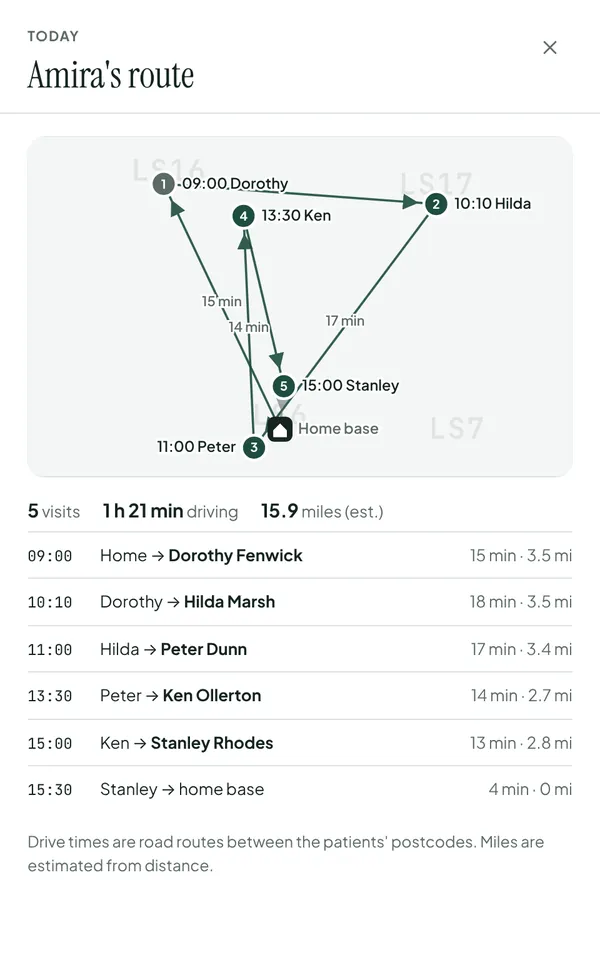
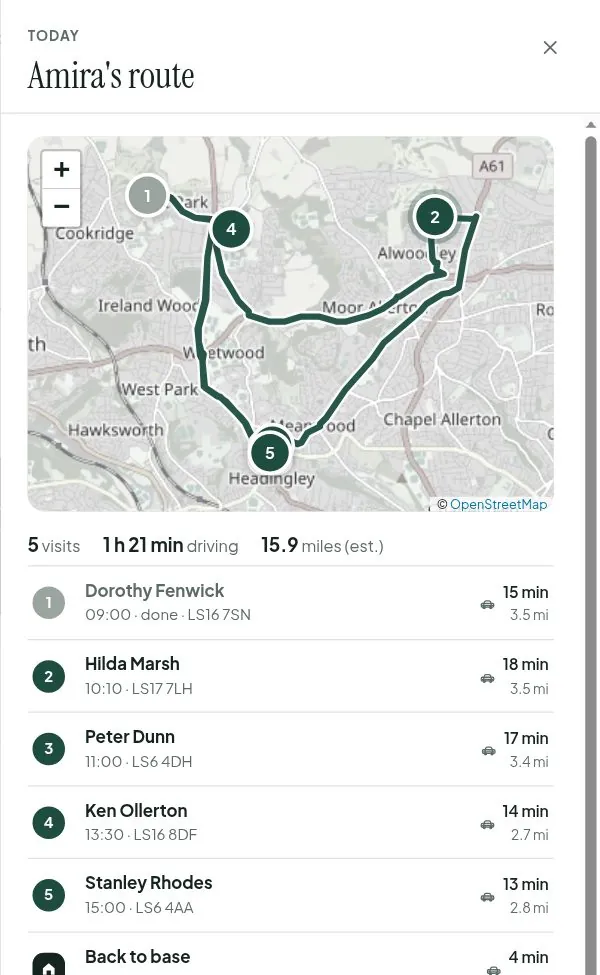
Position Domi for all home-visit healthcare; client branding by default on the live demo (#30)
Website and README
- Domi is now presented as the diary for healthcare that comes to the
  patient's home, not just domiciliary opticians.
- A new "Who it's for" section covers eye care, hearing, foot care,
  dental, physio, home blood tests, nursing and therapy assessments.
  - Each carries an honest status. Eye care is "Built for it" (its rules
    are in the demo); the rest are "Ready to set up" (the common core works
    and visit types are configured per practice).
  - Each names what isn't built for it: Noah 4, repeating visits, dental
    charting, a lab drop-off stop, medicines and wound charts.
- Hero copy, points and meta description are updated. New FAQs: which
  services, "we're not opticians", Noah.
- The roadmap gains repeating visits, care-home sessions and per-service
  records.
- Two new carousel cards: route planning and the referral form. The route
  cards are replaced with live street-map screenshots.
- The README gains a matching "Who it's for" table and the new demo
  address.

Demo address and branding
- The demo lives at app.domi.ysbdesigns.uk.
- A deployment can open in a practice's brand by default (DEFAULT_BRAND,
  set to hvo on the showcase service), so the plain address shows the
  client's logo and colours.
- /?brand=domi gives the neutral demo. The website's "Try the live demo"
  button uses it, so public visitors never land on a client's branding.
- The 6-hourly site check uses the bare domain.

Map
[…]

Changed region(s): [[0.03, 0.1231, 1.0, 1.0], [0.03, 0.0308, 0.33, 0.0923], [0.81, 0.9846, 0.84, 1.0]]

diff --git a/site/index.html b/site/index.html
@@ -4,7 +4,7 @@
 <meta charset="utf-8">
 <meta name="viewport" content="width=device-width, initial-scale=1">
 <title>Domi · Home-visit diaries that refill themselves</title>
-<meta name="description" content="Diary software for domiciliary opticians. When a patient cancels, Domi texts the best-matched person on your waiting list, books the first yes and updates the clinician's phone.">
+<meta name="description" content="The diary for healthcare that comes to the patient's home: eye care, hearing, foot care, dental, physio, blood tests and nursing. Domi refills cancellations by text, plans each clinician's route and takes referrals without paperwork.">
 <meta name="color-scheme" content="dark">
 <meta name="theme-color" content="#0C1412">
 <link rel="icon" href="favicon.svg" type="image/svg+xml">
@@ -285,6 +285,19 @@
   .tag { display: inline-block; font: 600 12px/1 'Plus Jakarta Sans', sans-serif; letter-spacing: .04em; text-transform: uppercase;
     padding: 6px 10px; border-radius: 999px; margin-bottom: 12px; }
   .tag-now { color: var(--mint); background: var(--mint-bg); }
+  /* Who it's for */
+  .sect-lead { max-width: 720px; margin: 18px auto 0; text-align: center; color: var(--soft); }
+  .sectors { list-style: none; margin: 40px 0 0; padding: 0; display: grid; grid-template-columns: repeat(3, minmax(0, 1fr)); gap: 16px; }
+  .sector { background: var(--card); border: 1px solid var(--line); border-radius: 22px; padding: 22px 22px 20px; }
+  .sector.lead { grid-column: span 2; background: linear-gradient(170deg, rgba(30,77,64,.9), rgba(18,48,42,.9)); border-color: rgba(108,197,146,.35); }
+  .sector h3 { margin: 12px 0 2px; font-size: 21px; letter-spacing: -0.015em; }
+  .sector .who { margin: 0 0 10px; color: var(--amber); font-size: 14.5px; font-weight: 600; }
+  .sector p { margin: 0; font-size: 15.5px; }
+  .sector .gap { display: block; margin-top: 10px; color: var(--soft); font-size: 14px; }
+  .tag-set { color: var(--ink); background: rgba(234,244,239,.08); border: 1px solid var(--line); }
+  .sect-fine { max-width: 760px; margin: 22px auto 0; text-align: center; }
+  @media (max-width: 960px) { .sectors { grid-template-columns: repeat(2, minmax(0, 1fr)); } .sector.lead { grid-column: 1 / -1; } }
+  @media (max-width: 620px) { .sectors { grid-template-columns: 1fr; } .sector.lead { grid-column: auto; } }
   .tag-soon { color: var(--amber); border: 1px solid rgba(244,162,125,.45); }
   .extras-note { text-align: center; color: var(--soft); font-size: 15px; max-width: 720px; margin: 22px auto 0; }
 
@@ -304,6 +317,7 @@
       <a class="brand" href="#"><img src="logo.svg" alt="" width="40" height="40">Domi</a>
       <ul>
         <li><a href="#how">How it works</a></li>
+        <li><a href="#sectors">Who it's for</a></li>
         <li><a href="#inside">Inside Domi</a></li>
         <li><a href="#coming">What's coming</a></li>
         <li><a href="#support">Questions</a></li>
@@ -314,7 +328,7 @@
     <div class="hero">
       <div class="hero-copy">
         <h1 class="rise"><span>Cancellations that</span> <span class="calm">fill themselves.</span></h1>
-        <p class="lede rise">Domi is the diary for domiciliary opticians. When a patient cancels, it texts the best-matched person on your waiting list, books the first yes, and updates the clinician’s phone.</p>
+        <p class="lede rise">Domi is the diary for healthcare that comes to the patient’s home: eye care, hearing, foot care, dental, physio and nursing. When a patient cancels, it texts the best-matched person on your waiting list, books the first yes, and plans each clinician’s route.</p>
         <div class="ctas rise">
           <a class="btn btn-main" href="%%DEMO_URL%%" rel="noopener">Try the live demo</a>
           <a class="btn btn-line" href="mailto:%%EMAIL%%?subject=Domi%20walkthrough">Book a walkthrough</a>
@@ -331,14 +345,41 @@
 
       <ul class="points" id="how">
         <li><h2 class="h3">Refills on its own</h2><p>A cancelled visit is offered to the best-matched patient by text. The first yes is booked, and everyone else keeps their place.</p></li>
-        <li><h2 class="h3">Books by the road</h2><p>New visits go where they add the least driving, weighed against how soon the patient needs to be seen.</p></li>
-        <li><h2 class="h3">On every clinician’s phone</h2><p>Today’s round, records and prescriptions. Changes arrive in a second, and it keeps working without signal.</p></li>
+        <li><h2 class="h3">Routes planned for you</h2><p>Each clinician’s day in the order that drives least, from home and back. Patients are told any new time.</p></li>
+        <li><h2 class="h3">No more paperwork</h2><p>Referrals arrive through a form, patient lists import from a spreadsheet, and the round is on every clinician’s phone.</p></li>
       </ul>
     </div>
   </div>
 </header>
 
 <main id="main">
+  <section id="sectors">
+    <div class="wrap">
+      <p class="kicker">Who it's for</p>
+      <h2>For every service that visits patients at home.</h2>
+      <p class="sect-lead">Every home-visit service has the same hard part: a round of patients spread across towns, cancellations that leave a gap nobody can fill in time, and referrals arriving on paper. Domi does that part. Each service then gets its own visit types, rules and records.</p>
+      <ul class="sectors">
+        <li class="sector lead"><span class="tag tag-now">Built for it</span><h3>Domiciliary eye care</h3><p class="who">Mobile and domiciliary opticians · the live demo is set up as one</p>
+          <p>NHS sight tests only offered 48 hours or more ahead, so PCSE can be told, with a list of notifications to lodge or cancel. Eye tests go to optometrists, never dispensing opticians. Glasses deliveries and repairs fill same-day gaps. Prescriptions on the clinician's phone.</p></li>
+        <li class="sector"><span class="tag tag-set">Ready to set up</span><h3>Hearing care</h3><p class="who">Audiologists and hearing aid dispensers</p>
+          <p>Hearing tests, fittings, wax removal and aid reviews as visit types, with cancellations refilled and routes planned. Audiogram records are set up with you. <span class="gap">Not built: Noah 4 integration.</span></p></li>
+        <li class="sector"><span class="tag tag-set">Ready to set up</span><h3>Foot care</h3><p class="who">Podiatrists, chiropodists and foot health practitioners</p>
+          <p>Nail-care rounds fill whole days, so a cancellation is lost income and a lost slot. Domi refills it and keeps the round tight. <span class="gap">Coming next: repeating visits every 6 to 8 weeks. Until then each visit is booked on its own.</span></p></li>
+        <li class="sector"><span class="tag tag-set">Ready to set up</span><h3>Dental care at home</h3><p class="who">Domiciliary dentists and hygienists</p>
+          <p>Visits to homes and care homes, with carers, access and capacity noted on the record, and each day's route planned for the least driving. <span class="gap">Not built: dental charting.</span></p></li>
+        <li class="sector"><span class="tag tag-set">Ready to set up</span><h3>Physiotherapy and rehab</h3><p class="who">Home physios, including after a hospital discharge</p>
+          <p>Short-notice patients slot straight into cancelled visits, and the referral form takes discharges from family or ward staff. <span class="gap">Coming next: a course of sessions booked in one go.</span></p></li>
+        <li class="sector"><span class="tag tag-set">Ready to set up</span><h3>Home blood tests</h3><p class="who">Mobile phlebotomists</p>
+          <p>Fasting patients marked mornings-only stay in the morning when routes are planned, and anyone who can't be texted is phoned. <span class="gap">Not built: a lab drop-off as a stop on the route.</span></p></li>
+        <li class="sector"><span class="tag tag-set">Ready to set up</span><h3>Nursing at home</h3><p class="who">Private and community nurses: wound care, injections, catheters</p>
+          <p>Visit notes on the phone even without signal, the day's route on a street map, and every record anyone opens logged. <span class="gap">Not built: medicines and wound charts.</span></p></li>
+        <li class="sector"><span class="tag tag-set">Ready to set up</span><h3>Therapy assessments</h3><p class="who">Occupational therapists and speech and language therapists</p>
+          <p>Referrals from families, GPs and social workers through one form, then assessments booked by drive time across the patch.</p></li>
+      </ul>
+      <p class="fine sect-fine">“Built for it” means the rules and records for that service are in the live demo today. “Ready to set up” means everything common to home visits works now (refills, routes, referrals, the phone app, sign-in), and that service's visit types are set up with you. Anything listed as not built isn't, until it is.</p>
+    </div>
+  </section>
+
   <!-- The tour film is off the page until it is re-recorded: the current cut still shows the old audiology demo.
   <section id="film">
     <div class="wrap">
@@ -364,7 +405,7 @@
         <div class="deck-pile">
           <figure class="deck-card tone-forest">
             <div class="deck-screen"><img src="shots/deck/refill.webp" width="600" height="975" alt="Refilling an 11:00 slot: three suitable patients ranked by priority, patch, days waiting and preferred clinician, all three asked at once, and an NHS sight test held back because PCSE needs 48 hours' notice." loading="lazy" decoding="async" draggable="false"></div>
-            <figcaption><span class="tag tag-now">In the demo</span><h3>A cancellation, refilled</h3><p>Peter’s glasses delivery is cancelled at 10:20. Three people fit the gap, and because the visit is 40 minutes away all three are texted at once.</p></figcaption>
+            <figcaption><span class="tag tag-now">In the demo</span><h3>A cancellation, refilled</h3><p>Peter’s visit is cancelled at 10:20. Three people fit the gap, and because the visit is 40 minutes away all three are texted at once.</p></figcaption>
           </figure>
           <figure class="deck-card tone-deep">
             <div class="deck-screen"><img src="shots/deck/yes.webp" width="600" height="975" alt="Slot refilled: Sylvia said no, Margaret said yes and is booked for 11:00 to have her new glasses fitted, and Geoffrey was told it's gone." loading="lazy" decoding="async" draggable="false"></div>
@@ -374,12 +415,20 @@
             <div class="deck-screen"><img src="shots/deck/changed.webp" width="600" height="975" alt="The clinician's phone: 'Your diary changed. Peter Dunn cancelled. Margaret Holt now booked today at 11:00, 14 Ash Grove.'" loading="lazy" decoding="async" draggable="false"></div>
             <figcaption><span class="tag tag-now">In the demo</span><h3>The phone updates itself</h3><p>Amira sees the new visit, the address and the notes within a second. Nobody had to ring her.</p></figcaption>
           </figure>
+          <figure class="deck-card tone-deep">
+            <div class="deck-screen"><img src="shots/deck/plans.webp" width="600" height="975" alt="Planning the rounds: every clinician's day checked for a shorter order. Tom's round can be done with 20 minutes less driving, and three patients would get a new time." loading="lazy" decoding="async" draggable="false"></div>
+            <figcaption><span class="tag tag-now">In the demo</span><h3>Routes planned for you</h3><p>Every clinician’s day put in the order that drives least, from home and back. Apply it, and anyone with a new time is texted.</p></figcaption>
+          </figure>
+          <figure class="deck-card tone-warm">
+            <div class="deck-screen"><img src="shots/deck/refer.webp" width="600" height="975" alt="The referral form on a phone: why a home visit is needed, with common conditions to tap, and NHS entitlement questions." loading="lazy" decoding="async" draggable="false"></div>
+            <figcaption><span class="tag tag-now">In the demo</span><h3>Referrals without paperwork</h3><p>Families, carers, care homes and GPs fill in one form. It lands with the office, and one click makes the patient record.</p></figcaption>
+          </figure>
           <figure class="deck-card tone-forest">
             <div class="deck-screen"><img src="shots/deck/slots.webp" width="600" height="975" alt="Booking a visit for Irene Battye: the best slots this week, each with the extra driving it adds and the visits it sits between." loading="lazy" decoding="async" draggable="false"></div>
             <figcaption><span class="tag tag-now">In the demo</span><h3>Booking by the drive</h3><p>Every gap this week, ranked by the extra driving it adds and weighed against how soon the patient needs to be seen.</p></figcaption>
           </figure>
           <figure class="deck-card tone-deep">
-            <div class="deck-screen"><img src="shots/deck/route.webp" width="600" height="975" alt="A clinician's day on a map on the phone: numbered stops, drive minutes for each leg and the drive home." loading="lazy" decoding="async" draggable="false"></div>
+            <div class="deck-screen"><img src="shots/deck/route.webp" width="600" height="975" alt="A clinician's day on a street map on the phone: numbered pins in visiting order along the roads, and the matching list with each drive." loading="lazy" decoding="async" draggable="false"></div>
             <figcaption><span class="tag tag-now">In the demo</span><h3>The day on a map</h3><p>Every stop, every drive and the drive home. It’s drawn on the phone without a map service, so it works offline too.</p></figcaption>
           </figure>
           <figure class="deck-card tone-warm">
@@ -425,7 +474,7 @@
           <button type="button" class="deck-btn" data-go="next" aria-label="Next card"><svg width="16" height="16" viewBox="0 0 16 16" fill="none" aria-hidden="true"><path d="m6 3 5 5-5 5" stroke="currentColor" stroke-width="1.6" stroke-linecap="round" stroke-linejoin="round"/></svg></button>
         </div>
         <div class="deck-foot">
-          <span class="deck-count" aria-hidden="true"><b>01</b> / 14</span>
+          <span class="deck-count" aria-hidden="true"><b>01</b> / 16</span>
           <button type="button" class="deck-play" aria-pressed="false">Pause</button>
         </div>
         <p class="deck-sr" aria-live="polite"></p>
@@ -446,9 +495,9 @@
             <label class="row"><input type="radio" name="plan" value="built" checked>
               <span class="row-text"><span class="row-name">In the demo <span class="badge">Working today</span></span><span class="row-price"><b>17</b> features you can try now</span></span><span class="dot" aria-hidden="true"></span></label>
             <label class="row"><input type="radio" name="plan" value="next">
-              <span class="row-text"><span class="row-name">Coming next <span class="badge soon">Not built yet</span></span><span class="row-price"><b>8</b> smaller pieces, first</span></span><span class="dot" aria-hidden="true"></span></label>
+              <span class="row-text"><span class="row-name">Coming next <span class="badge soon">Not built yet</span></span><span class="row-price"><b>10</b> smaller pieces, first</span></span><span class="dot" aria-hidden="true"></span></label>
             <label class="row"><input type="radio" name="plan" value="later">
-              <span class="row-text"><span class="row-name">Coming later <span class="badge soon">Not built yet</span></span><span class="row-price"><b>3</b> bigger pieces, with partners</span></span><span class="dot" aria-hidden="true"></span></label>
+              <span class="row-text"><span class="row-name">Coming later <span class="badge soon">Not built yet</span></span><span class="row-price"><b>4</b> bigger pieces, with partners</span></span><span class="dot" aria-hidden="true"></span></label>
           </fieldset>
           <p class="soon-line">No dates on purpose. Ask where any item stands and we’ll tell you straight.</p>
         </form>
@@ -484,6 +533,8 @@
               <li>Your data kept for good, hosted in the UK<small>A permanent database in a London data centre, encrypted, with daily backups.</small></li>
               <li>Bring visits and the waiting list across<small>Patients import today. Next, upcoming visits and the waiting list too.</small></li>
               <li>Recall texts sent automatically<small>When a sight test falls due, with the booking link.</small></li>
+              <li>Repeating visits and courses<small>Nail care every 6 to 8 weeks, a course of physio, booked in one go and refilled like any other visit.</small></li>
+              <li>Care-home sessions<small>Several residents on one visit, booked and notified together.</small></li>
               <li>Fundus photos and scans<small>Photos from a handheld fundus camera saved into the record from the phone.</small></li>
               <li>Card payments, Xero and care-home billing<small>Take payment on the doorstep, sync invoices, bill a care home for several residents at once.</small></li>
               <li>AI-drafted visit notes<small>A draft to check and save. Nothing is saved without the clinician approving it.</small></li>
@@ -497,6 +548,7 @@
             <ul>
               <li>PCSE Online<small>Lodge and cancel notifications and submit GOS 6 claims from Domi. This needs PCSE to accept Domi as a connected system, so we won’t promise a date.</small></li>
               <li>Lab orders and frames<small>Follow each pair of glasses to the lab and back, and book the delivery visit the day they arrive.</small></li>
+              <li>Records for each service<small>Audiograms, foot and dental charts, wound and medicines records, built with practices in each field.</small></li>
               <li>iPhone and Android apps<small>In the App Store and Google Play. Today the clinician app runs in the browser and works offline.</small></li>
             </ul>
           </div>
@@ -530,6 +582,18 @@
           <button class="faq-clear" type="button" aria-label="Clear search"><svg width="16" height="16" viewBox="0 0 24 24" fill="none" stroke="currentColor" stroke-width="2" stroke-linecap="round" aria-hidden="true"><path d="M6.5 6.5 17.5 17.5M17.5 6.5 6.5 17.5"/></svg></button>
         </div>
         <div class="faq-list" id="faq-list">
+          <details name="faq">
+            <summary><span>Which services is Domi for?</span><svg viewBox="0 0 24 24" fill="none" stroke="currentColor" stroke-width="2" stroke-linecap="round" stroke-linejoin="round" aria-hidden="true"><path d="m6 9 6 6 6-6"/></svg></summary>
+            <div class="answer"><p>Any healthcare service that visits patients at home or in care homes: eye care, hearing, foot care, dental, physiotherapy, blood tests, nursing and therapy assessments. Domiciliary eye care has its rules built in today, including PCSE's notice period for NHS sight tests. For the others, the parts every home-visit service needs work now, and your visit types and records are set up with you.</p></div>
+          </details>
+          <details name="faq">
+            <summary><span>We're not opticians. Will it work for us?</span><svg viewBox="0 0 24 24" fill="none" stroke="currentColor" stroke-width="2" stroke-linecap="round" stroke-linejoin="round" aria-hidden="true"><path d="m6 9 6 6 6-6"/></svg></summary>
+            <div class="answer"><p>The demo is set up as an eye-care practice, but most of what you'll see isn't specific to eyes: the waiting list, refilling cancellations by text, route planning, the referral form, the phone app and sign-in. Tell us how your visits work and we'll show you what's ready and what we'd set up, and be straight about anything that isn't built yet.</p></div>
+          </details>
+          <details name="faq">
+            <summary><span>Does it work with Noah?</span><svg viewBox="0 0 24 24" fill="none" stroke="currentColor" stroke-width="2" stroke-linecap="round" stroke-linejoin="round" aria-hidden="true"><path d="m6 9 6 6 6-6"/></svg></summary>
+            <div class="answer"><p>Not yet. For hearing practices, a Noah 4 integration needs a partnership with HIMSA, who make Noah. It's outside our control, so we won't give you a date we can't keep.</p></div>
+          </details>
           <details name="faq">
             <summary><span>Do we have to replace our current system?</span><svg viewBox="0 0 24 24" fill="none" stroke="currentColor" stroke-width="2" stroke-linecap="round" stroke-linejoin="round" aria-hidden="true"><path d="m6 9 6 6 6-6"/></svg></summary>
             <div class="answer"><p>No. You can run Domi for the diary, refills and routes and keep your clinical records where they are. Moving everything across is on the roadmap, and we’ll do the import with you when it’s ready.</p></div>

diff --git a/public/app.js b/public/app.js
@@ -15,9 +15,8 @@ let BRAND_ID = null;
 DomiAreas.bind(() => (S && S.areas) || (META && META.areas));
 function applyBrand(b) {
   if (!b) return;
-  BRAND_ID = b.id === "domi" ? null : b.id;
-  prefs.set("domi-brand", BRAND_ID);
-  if (BRAND_ID) document.documentElement.dataset.brand = b.id; else delete document.documentElement.dataset.brand;
+  BRAND_ID = b.id;
+  if (b.theme) document.documentElement.dataset.brand = b.id; else delete document.documentElement.dataset.brand;
   const lock = document.querySelector(".lockup");
   if (lock && lock.dataset.brand !== b.id) {
     lock.dataset.brand = b.id;
@@ -285,8 +284,8 @@ function signInView() {
   const A = UI.auth;
   const brand = `<section class="signin-brand">
       <div>
-        <div class="caps" style="color:inherit;opacity:.7">${BRAND_ID && META.brand ? esc(META.brand.practice) : "Domiciliary eye care"}</div>
-        ${BRAND_ID && META.brand ? `<h1 style="margin-top:14px">Every home visit, <em>in one place.</em></h1>
+        <div class="caps" style="color:inherit;opacity:.7">${META.brand && META.brand.logo ? esc(META.brand.practice) : "Domiciliary eye care"}</div>
+        ${META.brand && META.brand.logo ? `<h1 style="margin-top:14px">Every home visit, <em>in one place.</em></h1>
         <p>Patients, referrals, diaries and each clinician's route, all here: no spreadsheets, no documents. When someone cancels, the next patient who can be seen is offered the slot by text.</p>`
         : `<h1 style="margin-top:14px">Eye care that <em>comes to you.</em></h1>
         <p>A diary for home-visit opticians. When someone cancels, the next patient who can be seen is offered the slot by text, and the clinician's phone updates on its own.</p>`}
@@ -715,16 +714,33 @@ function buildMap(el, r) {
     if (pts.length) L.polyline([pts[pts.length - 1], base], { color: col, weight: 3, opacity: 0.4, dashArray: "2 9", lineCap: "round" }).addTo(map);
   }
   const markers = [];
-  L.marker(base, { icon: L.divIcon({ className: "", html: `<span class="pin home" title="Home base"><svg viewBox="0 0 24 24"><path d="M4 11 12 4l8 7v9h-5v-6H9v6H4z"/></svg></span>`, iconSize: [30, 30], iconAnchor: [15, 15] }), zIndexOffset: -100 })
+  const homeHtml = `<span class="pin home" title="Home base"><svg viewBox="0 0 24 24"><path d="M4 11 12 4l8 7v9h-5v-6H9v6H4z"/></svg></span>`;
+  const home = L.marker(base, { icon: L.divIcon({ className: "", html: homeHtml, iconSize: [30, 30], iconAnchor: [15, 15] }), zIndexOffset: -100 })
     .bindPopup(`<b>Home base</b><br>${esc(r.clinician.first)} starts and ends here`).addTo(map);
+  home.pinHtml = homeHtml;
   r.stops.forEach((s, i) => {
     const cls = s.proposed ? "prop" : s.status === "done" ? "done" : s.status === "live" || s.status === "enroute" ? "is-live" : "";
     const m = L.marker([s.lat, s.lon], { icon: L.divIcon({ className: "", html: pinHtml(s.proposed ? "+" : i + 1, cls, col), iconSize: [30, 30], iconAnchor: [15, 15] }), zIndexOffset: s.proposed ? 1000 : 100 + i, riseOnHover: true })
       .bindPopup(`<b>${hm(s.start)} · ${esc(s.name)}</b><br>${esc(s.addr || "")}${s.addr ? ", " : ""}${esc(s.pc)}${s.proposed ? "<br><i>Proposed new visit</i>" : s.status === "done" ? "<br>Done" : ""}`)
       .addTo(map);
+    m.pinHtml = pinHtml(s.proposed ? "+" : i + 1, cls, col);
     markers.push(m);
   });
-  map.fitBounds(L.latLngBounds([base, ...pts]), { padding: [36, 36], maxZoom: 15 });
+  // Two visits a few doors apart would hide one pin under the other: at each zoom, nudge any pin that would
+  // overlap one already placed, round in a small spiral. The pin's popup still points at the real address.
+  const spread = () => {
+    const placed = [];
+    [home, ...markers].forEach((m) => {
+      const p = map.latLngToLayerPoint(m.getLatLng());
+      let dx = 0, dy = 0, k = 0;
+      while (placed.some((q) => Math.hypot(q.x - p.x - dx, q.y - p.y - dy) < 27) && k < 12) { k++; const a = k * 2.4; dx = Math.cos(a) * 26; dy = Math.sin(a) * 26; }
+      placed.push({ x: p.x + dx, y: p.y + dy });
+      m.setIcon(L.divIcon({ className: "", html: m.pinHtml, iconSize: [30, 30], iconAnchor: [15 - dx, 15 - dy] }));
+    });
+  };
+  // Room on the left for the zoom buttons, so no pin hides under them.
+  map.fitBounds(L.latLngBounds([base, ...pts]), { paddingTopLeft: [56, 40], paddingBottomRight: [36, 36], maxZoom: 15 });
+  spread(); map.on("zoomend", spread);
   return { map, markers };
 }
 /** After each redraw: put the live map into every slot, reusing it when the route hasn't changed. */
@@ -1448,7 +1464,9 @@ $("#reset").onclick = async () => {
 (async function boot() {
   if ("serviceWorker" in navigator) navigator.serviceWorker.register("/sw.js").catch(() => {});
   const params = new URLSearchParams(location.search);
-  const wanted = params.has("brand") ? (params.get("brand") === "domi" ? null : params.get("brand").toLowerCase()) : undefined;
+  // ?brand=<id> picks a practice's look and is remembered on this device; without it, the server's default
+  // brand for this deployment is used (DEFAULT_BRAND, see server/brands.js).
+  const wanted = params.has("brand") ? params.get("brand").toLowerCase() : undefined;
   // A link for a different practice starts a fresh demo for it, rather than reopening the last one.
   if (wanted !== undefined && wanted !== prefs.get("domi-brand")) rememberDemo(null);
   if (wanted !== undefined) prefs.set("domi-brand", wanted);
@@ -1463,7 +1481,7 @@ $("#reset").onclick = async () => {
   try {
     if ((await api("GET", "/api/auth/session")).signedIn) {
       await load();
-      if (wanted === undefined || (S.brand.id === "domi" ? null : S.brand.id) === wanted) { connect(); return; }
+      if (wanted === undefined || S.brand.id === wanted) { connect(); return; }
       await api("POST", "/api/auth/logout").catch(() => {}); rememberDemo(null); S = null; BRAND_ID = wanted;
       META = await api("GET", "/api/meta" + (BRAND_ID ? "?brand=" + encodeURIComponent(BRAND_ID) : "")); applyBrand(META.brand);
     }

diff --git a/test/showcase.test.js b/test/showcase.test.js
@@ -106,3 +106,15 @@ test("referral form: a referral waits for the office; accepting makes the patien
   const amira = await login("amira@homevisitingoptics.example", null, code);
   assert.strictEqual((await call("POST", `/api/referrals/rf1/accept`, amira.token, {})).status, 403);
 });
+
+test("a deployment can open in a practice's brand by default; ?brand=domi still gives the neutral demo", async () => {
+  process.env.DEFAULT_BRAND = "hvo";
+  try {
+    assert.strictEqual((await call("GET", "/api/meta")).data.brand.id, "hvo", "the plain address shows the practice");
+    assert.strictEqual((await call("GET", "/api/meta?brand=domi")).data.brand.id, "domi", "the marketing site's link stays neutral");
+    const sb = (await call("POST", "/api/demo/start", null, {})).data.sandbox;
+    const pw = await call("POST", "/api/auth/password", null, { sandbox: sb, email: HVO, password: require("../server/auth").DEMO_PASSWORD });
+    assert.strictEqual(pw.status, 200, "a demo started without a brand is the practice's");
+  } finally { delete process.env.DEFAULT_BRAND; }
+  assert.strictEqual((await call("GET", "/api/meta")).data.brand.id, "domi");
+});

diff --git a/server/brands.js b/server/brands.js
@@ -23,7 +23,9 @@ const BRANDS = {
   },
 };
 
-const get = (id) => BRANDS[String(id || "").toLowerCase()] || BRANDS.domi;
+// A deployment can open in a practice's brand by default (DEFAULT_BRAND=<id>), so the plain address shows it;
+// /?brand=domi still gives the neutral demo, which is what the marketing site links to.
+const get = (id) => BRANDS[String(id || "").toLowerCase()] || BRANDS[String(process.env.DEFAULT_BRAND || "").toLowerCase()] || BRANDS.domi;
 /** What the browser may know about a brand (everything here is already public on the practice's website). */
 const pub = (b) => ({ id: b.id, practice: b.practice, logo: b.logo, logoAlt: b.logoAlt || b.practice, wordmark: b.wordmark, tagline: b.tagline, theme: b.theme || null, phone: b.phone || null });
 

diff --git a/scripts/build-site.js b/scripts/build-site.js
@@ -11,7 +11,7 @@ const path = require("node:path");
 const root = path.resolve(__dirname, "..");
 const out = path.resolve(root, process.argv[2] || "_site");
 const cfg = {
-  DEMO_URL: process.env.DEMO_URL || "https://domi-hearing-demo.onrender.com",
+  DEMO_URL: process.env.DEMO_URL || "https://app.domi.ysbdesigns.uk/?brand=domi", // the neutral demo, whatever brand the deployment defaults to
   EMAIL: process.env.EMAIL || "yameen@ysbdesigns.uk",
   SITE_URL: (process.env.SITE_URL || "https://domi.ysbdesigns.uk").replace(/\/$/, ""),
 };

diff --git a/README.md b/README.md
@@ -6,10 +6,13 @@
 
 **Home-visit diaries that refill themselves.**
 
-When a patient cancels, Domi texts the best-matched person on the waiting list,
-books the first yes, and updates the clinician's phone. Nobody in the office has to ring round.
+The diary for healthcare that comes to the patient's home: eye care, hearing,
+foot care, dental, physio, blood tests, nursing and therapy assessments. When a
+patient cancels, Domi texts the best-matched person on the waiting list and books
+the first yes. It plans each clinician's route and takes referrals without
+paperwork. Nobody in the office has to ring round.
 
-Made by YSB Ventures Ltd · [domi.ysbdesigns.uk](https://domi.ysbdesigns.uk)
+Made by YSB Ventures Ltd · [domi.ysbdesigns.uk](https://domi.ysbdesigns.uk) · demo at [app.domi.ysbdesigns.uk](https://app.domi.ysbdesigns.uk/?brand=domi)
 
 ![Node](https://img.shields.io/badge/Node-22-1E4D40?style=flat-square&labelColor=15241F&color=1E4D40)
 ![Dependencies](https://img.shields.io/badge/npm%20dependencies-none-E07B4F?style=flat-square&labelColor=15241F)
@@ -25,7 +28,7 @@ Made by YSB Ventures Ltd · [domi.ysbdesigns.uk](https://domi.ysbdesigns.uk)
 > [!NOTE]
 > **Reading this without a technical background?** Start at *The problem*, *What's
 > in it* and *One cancellation, end to end*. Those three explain what Domi is and
-> what it does for a domiciliary optician. Everything after *How the
+> what it does for a home-visit service. Everything after *How the
 > pieces fit* is for whoever maintains the code.
 
 ### How to read the diagrams
@@ -76,6 +79,33 @@ patient needs to be seen.
 > practice is the invented *Aire Valley Eyecare*, and the office can change it
 > (Waiting list → *Texts are signed*), so a prospect can see the demo with their
 > own name.
+
+---
+
+## Who it's for
+
+Every home-visit service has the same hard part: a round of patients spread
+across towns, cancellations that leave a gap nobody can fill in time, and
+referrals arriving on paper. Domi does that part. Each service then gets its own
+visit types, rules and records. The website's *Who it's for* section says the
+same, with the same honesty about what isn't built.
+
+| Service | Status | What's specific to it |
+| :--- | :--- | :--- |
+| **Domiciliary eye care** | Built for it: the demo is an eye-care practice | PCSE's 48-hour notice for NHS sight tests; eye tests only to optometrists; glasses deliveries fill same-day gaps; prescriptions on the phone |
+| **Hearing care** | Ready to set up | Hearing tests, fittings, wax removal and aid reviews as visit types; audiogram records set up with the practice. *Not built:* Noah 4 |
+| **Foot care** (podiatry, chiropody, foot health) | Ready to set up | Nail-care rounds refilled and planned. *Coming next:* repeating visits every 6–8 weeks |
+| **Dental care at home** | Ready to set up | Homes and care homes, carers and capacity noted. *Not built:* dental charting |
+| **Physiotherapy and rehab** | Ready to set up | Short-notice discharges slot into cancellations. *Coming next:* a course of sessions booked at once |
+| **Home blood tests** | Ready to set up | Mornings-only patients stay in the morning when routes are planned. *Not built:* a lab drop-off stop |
+| **Nursing at home** | Ready to set up | Offline notes, the route on a street map, every record view logged. *Not built:* medicines and wound charts |
+| **Therapy assessments** (OT, speech and language) | Ready to set up | Referrals from families, GPs and social workers through one form |
+
+*Ready to set up* means everything common to home visits works today (refills,
+route planning, booking by drive time, the referral form, patient import, the
+offline phone app, two-factor sign-in, the audit log), and that service's visit
+types are configured with the practice (`server/domain.js`). Don't let anyone
+describe a *Ready to set up* service as built for it.
 
 ---
 
@@ -219,7 +249,15 @@ is a Blueprint, so Render reads the settings from the repo:
 
 1. Sign in at [dashboard.render.com](https://dashboard.render.com) with GitHub and give Render access to this repo.
 2. **New → Blueprint**, choose this repo and `main`, then **Apply**.
-3. About two minutes later it's at `https://domi-hearing-demo.onrender.com`. The build runs the tests, so a failing test stops a bad deploy.
+3. About two minutes later it's at its `onrender.com` address. The build runs the tests, so a failing test stops a bad deploy.
+
+The live service is **domi-bolton**, at **`https://app.domi.ysbdesigns.uk`** (a
+custom domain: a CNAME `app.domi` → `domi-hearing-demo.onrender.com` at one.com),
+and it still answers at `https://domi-hearing-demo.onrender.com`. It deploys
+from `main`. It sets `DEFAULT_BRAND=hvo`, so the plain address opens in a
+practice's own branding for a showcase. `/?brand=domi` gives the neutral demo,
+which is what the website links to. Remove the variable in Render (Environment)
+when the showcase is over.
 
 On the free plan it **sleeps after 15 minutes without visits** and takes about
 30–60 seconds to wake. Open it a few minutes before a meeting. Every wake
@@ -238,7 +276,7 @@ and publishes:
 
 **Settings → Pages → Source** must be **GitHub Actions**, not a branch. Optional
 repository variables (**Settings → Secrets and variables → Actions → Variables**):
-`DEMO_URL` (default `https://domi-hearing-demo.onrender.com`), `EMAIL` (default
+`DEMO_URL` (default `https://app.domi.ysbdesigns.uk/?brand=domi` for the website's button; the 6-hourly check uses the bare domain), `EMAIL` (default
 `yameen@ysbdesigns.uk`) and `SITE_URL` (default `https://domi.ysbdesigns.uk`).
 `site-check.yml` loads the website and the demo every 6 hours and fails, which
 makes GitHub email you, if one is down.
@@ -312,6 +350,7 @@ without a valid `X-Twilio-Signature` (it uses `PUBLIC_URL`, or `RENDER_EXTERNAL_
 | `MAX_SANDBOXES` | 100 | Private demos kept in memory at once |
 | `ROUTING_PROVIDER` | `estimate` | `osrm` for live road routes and postcode lookups |
 | `OSRM_URL` | public demo server | Your own OSRM server |
+| `DEFAULT_BRAND` | none (`domi`) | The brand the plain address opens in (`server/brands.js`). `/?brand=<id>` always overrides it |
 
 ### Security in the demo
 
